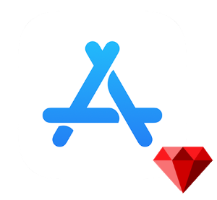
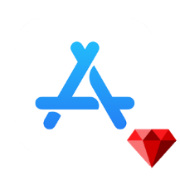
smaller

diff --git a/README.md b/README.md
@@ -1,7 +1,7 @@
 
 
 <div align="center">
-  <img src="assets/banner.png" width="217" height="200">
+  <img src="assets/banner.png" width="180" height="180">
 
   <h1>App Store Connect</h1>
 
